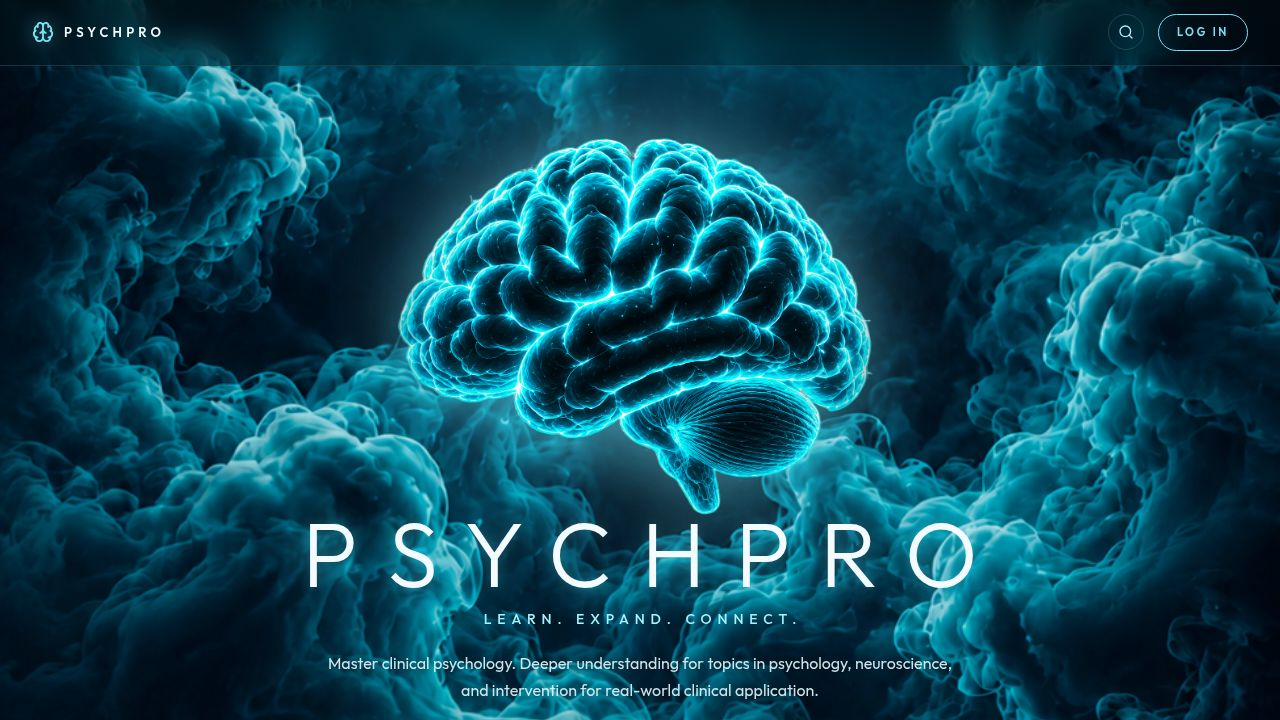
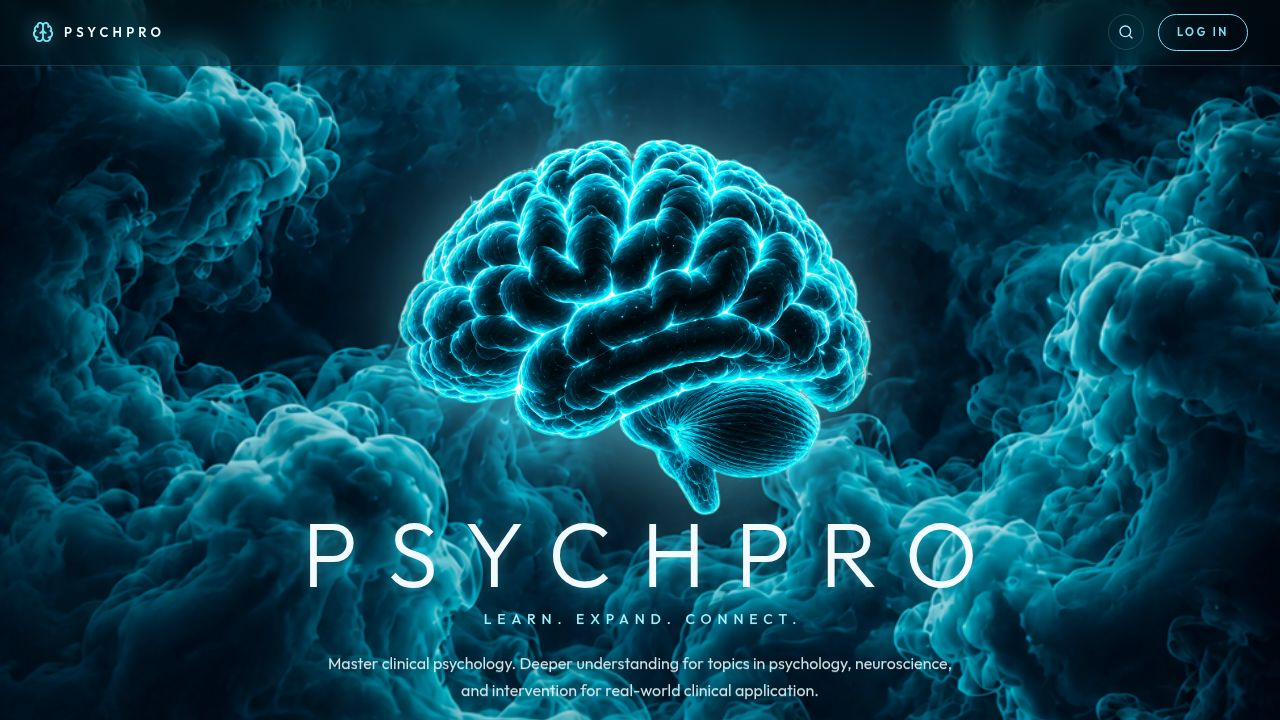
Replace 3D brain visuals with an interactive wireframe diagram
Removes the 3D brain model and "Diagrams coming soon" placeholder from the brain lab page, replacing it with an SVG wireframe. This wireframe features clickable regions that highlight when selected or when a corresponding structure is chosen, promoting a simpler, more focused user experience.

Replit-Commit-Author: Agent
Replit-Commit-Session-Id: ee5a4dd1-e5ce-403a-8006-f93260256b8a
Replit-Commit-Checkpoint-Type: full_checkpoint
Replit-Commit-Event-Id: e4a7376e-d6ac-419e-8a0f-a31d44e378d2
Replit-Commit-Screenshot-Url: https://storage.googleapis.com/screenshot-production-us-central1/d3876158-494b-4e7b-a77f-48830782ce72/ee5a4dd1-e5ce-403a-8006-f93260256b8a/OadVOtG
Replit-Helium-Checkpoint-Created: true

diff --git a/artifacts/neuronotes/src/pages/brain-lab.tsx b/artifacts/neuronotes/src/pages/brain-lab.tsx
@@ -16,7 +16,6 @@ import {
   Activity,
   Network,
   Compass,
-  ImagePlus,
 } from "lucide-react";
 import {
   BRAIN_STRUCTURES,
@@ -566,40 +565,151 @@ function EmptyDetail() {
   );
 }
 
-// Placeholder for the visual canvas area. Sits where the 3D brain used
-// to render. Once the user uploads standalone diagram images, this block
-// will be replaced with an image-map style component where clicking each
-// region/nerve/pathway calls `onSelect(structureId)`.
-function DiagramPlaceholder() {
+// Simple SVG wireframe brain. Each of the 5 region groups is a clickable
+// shape that glows in its system color when the user clicks it OR when the
+// currently-selected structure belongs to that group. Clicking a region
+// promotes that group to the active tab so its chip strip is visible.
+const REGION_PATHS: Record<
+  TabGroup,
+  {
+    d: string;
+    testid: string;
+    label: string;
+    color: string;
+    labelPos: [number, number];
+  }
+> = {
+  cortex: {
+    d:
+      "M 70 145 C 60 95, 95 45, 185 40 C 275 36, 335 70, 338 125 " +
+      "C 340 155, 322 175, 292 178 L 118 178 C 90 178, 70 168, 70 145 Z " +
+      "M 95 95 C 110 80, 130 75, 145 90 M 150 75 C 170 65, 195 65, 215 80 " +
+      "M 225 65 C 250 60, 280 70, 295 90 M 305 110 C 320 120, 322 140, 312 155",
+    testid: "wireframe-cortex",
+    label: "Cortex",
+    color: SYSTEM_META.cortex.color,
+    labelPos: [200, 65],
+  },
+  whitematter: {
+    d: "M 112 138 C 140 108, 270 108, 296 138",
+    testid: "wireframe-whitematter",
+    label: "White Matter",
+    color: SYSTEM_META["white-matter"].color,
+    labelPos: [200, 102],
+  },
+  limbic: {
+    d:
+      "M 170 158 C 168 142, 198 138, 218 150 C 232 160, 222 174, 200 172 " +
+      "C 184 170, 170 168, 170 158 Z",
+    testid: "wireframe-limbic",
+    label: "Limbic",
+    color: SYSTEM_META.limbic.color,
+    labelPos: [195, 195],
+  },
+  subcortical: {
+    d:
+      "M 232 156 C 232 146, 272 146, 272 159 C 272 170, 232 170, 232 156 Z",
+    testid: "wireframe-subcortical",
+    label: "Subcortical",
+    color: SYSTEM_META.diencephalon.color,
+    labelPos: [252, 138],
+  },
+  brainstem: {
+    d:
+      "M 218 178 L 213 240 L 247 240 L 242 178 Z " +
+      "M 248 180 C 292 180, 322 200, 322 222 C 322 242, 296 252, 272 246 " +
+      "C 252 240, 248 222, 248 200 Z",
+    testid: "wireframe-brainstem",
+    label: "Brainstem",
+    color: SYSTEM_META.brainstem.color,
+    labelPos: [285, 268],
+  },
+};
+
+function WireframeBrain({
+  activeTab,
+  selectedSystem,
+  onPickGroup,
+}: {
+  activeTab: TabGroup | "all";
+  selectedSystem: BrainSystem | null;
+  onPickGroup: (group: TabGroup) => void;
+}) {
+  const selectedGroup = selectedSystem ? tabForSystem(selectedSystem) : null;
+
   return (
     <div
-      className="relative h-full w-full flex flex-col items-center justify-center text-center px-6"
-      data-testid="brain-diagram-placeholder"
+      className="relative h-full w-full flex items-center justify-center p-4 md:p-6"
+      data-testid="brain-wireframe"
     >
-      <div
-        className="w-16 h-16 rounded-2xl flex items-center justify-center mb-5"
-        style={{
-          background: `linear-gradient(135deg, ${PALETTE.teal}33, ${PALETTE.surf}22)`,
-          border: `1px solid ${PALETTE.surf}44`,
-          boxShadow: `0 0 32px -8px ${PALETTE.surf}66`,
-        }}
+      <svg
+        viewBox="0 0 400 280"
+        className="w-full h-full max-w-2xl"
+        role="img"
+        aria-label="Interactive wireframe brain — click a region to highlight it"
       >
-        <ImagePlus className="w-8 h-8" style={{ color: PALETTE.surf }} />
-      </div>
-      <h2 className="text-lg md:text-xl font-semibold text-white mb-2">
-        Diagrams coming soon
-      </h2>
-      <p className="text-sm leading-relaxed max-w-md" style={{ color: `${PALETTE.mist}99` }}>
-        High-resolution anatomical diagrams will live here. Each structure,
-        nerve, and pathway in the diagrams will be clickable and open the
-        same detail panel you see on the right.
-      </p>
+        {TAB_KEYS.map((key) => {
+          const r = REGION_PATHS[key];
+          const isActive = activeTab === key || selectedGroup === key;
+          const baseStroke = `${PALETTE.surf}55`;
+          return (
+            <g
+              key={key}
+              onClick={() => onPickGroup(key)}
+              style={{ cursor: "pointer" }}
+              data-testid={r.testid}
+              role="button"
+              aria-label={`Highlight ${r.label}`}
+              tabIndex={0}
+              onKeyDown={(e) => {
+                if (e.key === "Enter" || e.key === " ") {
+                  e.preventDefault();
+                  onPickGroup(key);
+                }
+              }}
+            >
+              <path
+                d={r.d}
+                fill={isActive ? `${r.color}26` : "transparent"}
+                stroke={isActive ? r.color : baseStroke}
+                strokeWidth={isActive ? 2.2 : 1.2}
+                strokeLinejoin="round"
+                strokeLinecap="round"
+                style={{
+                  transition:
+                    "fill 0.25s ease, stroke 0.25s ease, stroke-width 0.25s ease, filter 0.25s ease",
+                  filter: isActive
+                    ? `drop-shadow(0 0 6px ${r.color}) drop-shadow(0 0 14px ${r.color}88)`
+                    : undefined,
+                }}
+              />
+              {isActive && (
+                <text
+                  x={r.labelPos[0]}
+                  y={r.labelPos[1]}
+                  textAnchor="middle"
+                  fontSize={9}
+                  fontWeight={700}
+                  fill={r.color}
+                  style={{
+                    pointerEvents: "none",
+                    letterSpacing: "1.2px",
+                    textTransform: "uppercase",
+                  }}
+                >
+                  {r.label}
+                </text>
+              )}
+            </g>
+          );
+        })}
+      </svg>
       <p
-        className="mt-4 text-xs"
+        className="absolute bottom-3 left-0 right-0 text-center text-[11px]"
         style={{ color: `${PALETTE.mist}66` }}
       >
-        In the meantime, use the region tabs, chip strip, or search to
-        explore every structure.
+        Click a region to highlight it, then pick a structure from the chips
+        below.
       </p>
     </div>
   );
@@ -769,7 +879,17 @@ export default function BrainLabPage() {
             }}
             data-testid="brain-diagram-wrap"
           >
-            <DiagramPlaceholder />
+            <WireframeBrain
+              activeTab={activeTab}
+              selectedSystem={selected?.system ?? null}
+              onPickGroup={(g) => {
+                // Clicking a wireframe region promotes that group to the
+                // active tab so its chip strip is visible. We intentionally
+                // don't auto-select a specific structure — the user picks
+                // from the chips below.
+                setActiveTab(g);
+              }}
+            />
 
             {/* Search overlay */}
             {searchOpen && (